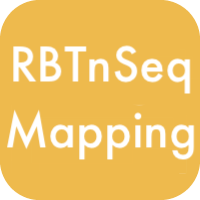
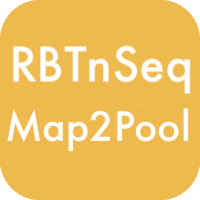
Map2Pool UI

Changed region(s): [[0.03, 0.54, 0.99, 0.81], [0.99, 0.81, 1.0, 0.84]]

diff --git a/lib/full/FullProgram.py b/lib/full/FullProgram.py
@@ -25,16 +25,14 @@ Note:
     designrandompool needs genes.GC, 
 """
 
-def CompleteRun(map_cfg_fp, drp_cfg_fp, tmp_dir, pool_output_fp, gnm_nm, 
+def CompleteRun(map_cfg_d, drp_cfg_d, tmp_dir, pool_output_fp, gnm_nm, 
                 KB_pool_bool, cfg_d, vp,
                 models_dir=None):
     """
     Args:
-        map_cfg_d (str): Path to config JSON dict for MapTnSeq 
-            Among others, contains keys:
-                genome_fp: (file path to genome fna file in tmp dir)
+        map_cfg_d (str): Map TnSeq Config Dict 
 
-        drp_cfg_fp (str): Path to config JSON dict for Design Random Pool
+        drp_cfg_d (dict): Design Random Pool Config Dict
 
         tmp_dir (str): Path to directory
 
@@ -64,20 +62,13 @@ def CompleteRun(map_cfg_fp, drp_cfg_fp, tmp_dir, pool_output_fp, gnm_nm,
     """
 
     # Checking inputs exist
-    for x in [map_cfg_fp, drp_cfg_fp]:
-        if not os.path.exists(x):
-            raise Exception(x + " does not exist, cannot run without configs")
+    for x in [map_cfg_d, drp_cfg_d]:
+        if not isinstance(x, dict):
+            raise Exception("Config dict not dict as expected, instead " + str(type(x)))
 
+    map_cfg = map_cfg_d["values"]
 
-    # Loading MapTNSEQ Config Dictionary from JSON to python
-    # why do we load this to JSON instead of passing it around as a python dict?
-    with open(map_cfg_fp, "r") as g:
-        map_cfg = json.loads(g.read())["values"]
-
-    # LOADING DESIGN RANDOM POOL Config Dictionary from JSON to python
-    # to be used after map tn seq has finished running
-    with open(drp_cfg_fp, "r") as g:
-        drp_cfg = json.loads(g.read())["values"]
+    drp_cfg = drp_cfg_d["values"]
     
     # Initializing dict to be used for HTML generation
     pre_HTML_d = {"genome_name": gnm_nm, "orig_fq_fns": map_cfg["orig_fq_fns"]}
@@ -112,15 +103,24 @@ def CompleteRun(map_cfg_fp, drp_cfg_fp, tmp_dir, pool_output_fp, gnm_nm,
     map_cfg['modeltest'] = False 
 
     current_map_cfg = copy.deepcopy(map_cfg)
+    mts_tables_dir = cfg_d["mts_tables_dir"]
 
     for i in range(num_mts_runs):
 
         current_map_cfg["fastq_fp"] = map_cfg['fastq_fp_list'][i]
 
-        # (current MapTnSeq Table File)
-        cMTS_output_fp = os.path.join(tmp_dir, "MTS_Table_" + str(i).zfill(3) + ".tsv")
+        # New code
+        current_mts_table_dir = os.path.join(mts_tables_dir, str(i).zfill(3))
+        os.mkdir(current_mts_table_dir)
+
+        cMTS_output_fp = os.path.join(current_mts_table_dir, "MTS_Table.tsv")
         current_map_cfg['output_fp'] = cMTS_output_fp
         MapTS_Output_fps.append(cMTS_output_fp)
+
+        current_map_cfg['unmapped_fp'] = os.path.join(current_mts_table_dir, 'UNMAPPED.fna')
+        current_map_cfg['tmpFNA_fp'] = os.path.join(current_mts_table_dir, 'TMP.fna')
+        current_map_cfg['trunc_fp'] = os.path.join(current_mts_table_dir, 'TRUNC.fna')
+        current_map_cfg['endFNA_fp'] = os.path.join(current_mts_table_dir, 'END.fna')
 
         logging.info("Running MapTnSeq on {}.\n Output {}".format(
                                                 current_map_cfg["fastq_fp"], cMTS_output_fp))

diff --git a/lib/map_tnseq/map_tnseqImpl.py b/lib/map_tnseq/map_tnseqImpl.py
@@ -133,10 +133,7 @@ class map_tnseq:
                 "model_dir": td, 
                 "gene_table_fp": os.path.join(td, "genes.GC"),
                 "blat_cmd": "/kb/module/lib/map_tnseq/blat",
-                "unmapped_fp": os.path.join(td, "UNMAPPED.fna"),
-                "tmpFNA_fp": os.path.join(td,"TMP.fna"),
-                "trunc_fp": os.path.join(td, "TRUNC.fna"),
-                "endFNA_fp": os.path.join(td, "END.fna"),
+                "mts_tables_dir": os.path.join(td, "MTS_Tables"),
                 "R_fp": "/kb/module/lib/map_tnseq/PoolStats.R",
                 "R_op_fp": os.path.join(td, "R_results.txt"),
                 "MTS_cfg_fp": os.path.join(td, "maptnseqconfig.json"),
@@ -144,9 +141,16 @@ class map_tnseq:
                 "css_style_fp": "/kb/module/lib/map_tnseq/style.css"
         }
         
+        '''
+            "unmapped_fp": os.path.join(td, "UNMAPPED.fna"),
+            "tmpFNA_fp": os.path.join(td,"TMP.fna"),
+            "trunc_fp": os.path.join(td, "TRUNC.fna"),
+            "endFNA_fp": os.path.join(td, "END.fna"),
+        '''
+        
         # We divide the program into 3 parts:
         # Part 1: Prepare to run program: Download necessary files, create configs
-        pool_op_fp, vp, genome_scientific_name = PrepareProgramInputs(params, cfg_d)
+        pool_op_fp, vp, genome_scientific_name, mts_cfg_d, drp_cfg_d = PrepareProgramInputs(params, cfg_d)
 
 
         # Part 1.5: Prepare vars 
@@ -155,7 +159,7 @@ class map_tnseq:
         cfg_d["Main_HTML_report_fp"] = html_fp
 
         # Part 2: Run the central part of the program using recently created config files
-        CompleteRun(cfg_d["MTS_cfg_fp"], cfg_d["DRP_cfg_fp"],
+        CompleteRun(mts_cfg_d, drp_cfg_d,
                     cfg_d["tmp_dir"], pool_op_fp, genome_scientific_name,
                     vp["KB_Pool_Bool"], cfg_d, vp)
 

diff --git a/lib/util/PrepareIO.py b/lib/util/PrepareIO.py
@@ -32,7 +32,7 @@ def PrepareProgramInputs(params, cfg_d):
             tmpFNA_fp: (s) Path to tmp fna (write)
             trunc_fp: (s) Path to Trunc (write)
             endFNA_fp: (s) Path to endFNA (write)
-            R_fp: (s) Path to PoolStats.R file
+            ##R_fp: (s) Path to PoolStats.R file
             R_op_fp: (s) Path to write R
             MTS_cfg_fp: (s) Path to write MapTnSeq Config
             DRP_cfg_fp: (s) Path to write Design Random Pool Config
@@ -82,6 +82,8 @@ def PrepareProgramInputs(params, cfg_d):
     cfg_d['fastq_fp_l'] = fastq_fp_l
     cfg_d['orig_fq_fns'] = orig_fq_fns 
 
+    # We make the map tn seq tables directory
+    os.mkdir(cfg_d["mts_tables_dir"])
 
     MTS_cfg_d, DRP_cfg_d = Create_MTS_DRP_config(cfg_d, vp)
 
@@ -96,11 +98,10 @@ def PrepareProgramInputs(params, cfg_d):
     logging.info("Wrote both config files. MTS at {}, DRP at {}".format(
                 cfg_d["MTS_cfg_fp"], cfg_d["DRP_cfg_fp"]))
 
-    MTS_cfg_d, DRP_cfg_d = None, None
 
     pool_op_fp = os.path.join(cfg_d["tmp_dir"] ,vp["output_name"] + ".pool")
 
-    return [pool_op_fp, vp, genome_scientific_name]
+    return [pool_op_fp, vp, genome_scientific_name, MTS_cfg_d, DRP_cfg_d]
 
 
 def PrepareUserOutputs(vp, cfg_d):
@@ -135,6 +136,8 @@ def PrepareUserOutputs(vp, cfg_d):
     # We move files to this directory (mutant pool & gene table)
     shutil.copy(cfg_d['pool_fp'], res_dir)
     shutil.copy(cfg_d["gene_table_fp"], res_dir)
+    # Move the Map TnSeq Tables to the output directory
+    shutil.copytree(cfg_d["mts_tables_dir"], os.path.join(res_dir, "MTS_Tables"))
 
 
     # Returning file in zipped format:-------------------------------

diff --git a/README.md b/README.md
@@ -1,5 +1,7 @@
 # map_tnseq
 
+    Link to narrative tutorial on KBase: ___
+    Link to documentation on google docs: ___
 
     Mapping transposon insertions to the location in the genome.
 
@@ -15,9 +17,8 @@
         minQuality: If a read has a quality measurement below the minQuality, 
                     then throw out the read.
         delta: Minimum length of mapping to the genome after the end of the model
-        minN: For a barcode to be considered good enough, it must have more than
-                this number of hits.
-
+        minN: For a barcode to be considered good enough, it must have more than this number of hits.
+    
 
 This is a [KBase](https://kbase.us) module generated by the [KBase Software Development Kit (SDK)](https://github.com/kbase/kb_sdk).
 
